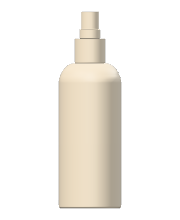
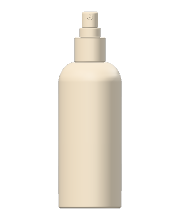
cl161: troca de fechamentos do catálogo nos Frascos e spray sem proteção

diff --git a/js/app.js b/js/app.js
@@ -19,7 +19,7 @@ import { Reflector } from 'three/addons/objects/Reflector.js';
 import { computeBoundsTree, disposeBoundsTree, acceleratedRaycast } from 'three-mesh-bvh';
 import { Brush, Evaluator, SUBTRACTION, ADDITION, INTERSECTION } from 'three-bvh-csg';
 import { icon } from './icons.js?v=2026-11-16.incom12';
-import { INCOM_CAPS, INCOM_PRODUCTS, INCOM_CAP_PROF, INCOM_PROD_PROF, INCOM_TRAYS } from './incom.js?v=2026-11-20.cl160';
+import { INCOM_CAPS, INCOM_PRODUCTS, INCOM_CAP_PROF, INCOM_PROD_PROF, INCOM_TRAYS } from './incom.js?v=2026-11-20.cl161';
 THREE.BufferGeometry.prototype.computeBoundsTree = computeBoundsTree;
 THREE.BufferGeometry.prototype.disposeBoundsTree = disposeBoundsTree;
 THREE.Mesh.prototype.raycast = acceleratedRaycast;
@@ -707,7 +707,7 @@ const BEIGE = '#e8dcc6', PINK = BEIGE, CREAM = BEIGE;
 // de cada corpo e tampa foi medido nos OBJs (tools/perfis.py) e vira um
 // módulo "perfil" com os mesmos sliders, volumetria e troca dos demais.
 // Carimbo de versão: aparece no topo; se não bater com o último envio, é cache.
-const BUILD = '2026-11-20.cl160';
+const BUILD = '2026-11-20.cl161';
 document.getElementById('build').textContent = 'versão ' + BUILD;
 let PERFIS = {};
 try { PERFIS = await (await fetch('draft/perfis.json?v=' + BUILD)).json(); } catch { PERFIS = {}; }
@@ -9609,7 +9609,16 @@ function incomSuggestions(m) {
     const v = k.replace(/^Incom /, '').replace(/\s*\([^)]*\)\s*$/, '');
     out.push({ k, mod, label: v === fam ? `${fam} (padrão do catálogo)` : v, cur: sig(mod) === sig(m) });
   }
-  return out.length > 1 ? out : [];
+  // cl161 (dona, Amsterdam frasco ao lado da pág. 64 do catálogo: "aqui oferecer as peças intercambiáveis de válvulas, sempre oferecer a
+  // troca quando possível"): nos Frascos (rosca 24-410) os fechamentos do catálogo entram primeiro na troca, já no tamanho do frasco
+  const clos = [], cat = categoryOf(m)?.[0];
+  if (me?.fcat === 'Frascos' && (cat === 'Tampa' || cat === 'Válvula')) {
+    const Wb = S.modules.find(x => x.vol)?.W || 50;
+    const size = { incomSens: { W: r1(Wb * 0.727), D: r1(Wb * 0.727), h: r1(Wb * 0.424) }, incomTambor: { W: r1(Wb * 0.98), D: r1(Wb * 0.98) }, patoIncom: { W: r1(Wb * 88 / 196), D: r1(Wb * 88 / 196) } };
+    for (const k of ['incomSpray', 'incomDosadora', 'patoIncom', 'incomTrigger', 'incomEspumadora', 'incomBicoAplicador', 'incomSens', 'incomTambor']) if (LIB[k])
+      clos.push({ k, mod: M(k, { ...(size[k] || {}), gap: m.gap, ox: m.ox }), label: LIB[k].name.replace(/^Incom · /, ''), cur: typeOf(m) === k, fecho: true });
+  }
+  return [...(out.length > 1 ? out : []), ...clos];
 }
 function renderSwap(ed, m) {
   const [label, keys] = categoryOf(m), cur = typeOf(m);
@@ -9633,11 +9642,11 @@ function renderSwap(ed, m) {
   originTabs.onclick = e => { const origin = e.target.closest('button')?.dataset.origin; if (origin) chooseOrigin(origin); };
   originTabs.onkeydown = e => { if (!['ArrowLeft', 'ArrowRight', 'Home', 'End'].includes(e.key)) return; e.preventDefault(); chooseOrigin(e.key === 'Home' ? 'outbox' : e.key === 'End' ? 'incom' : swapOrigin === 'incom' ? 'outbox' : 'incom'); originTabs.querySelector(`[data-origin="${swapOrigin}"]`).focus(); };
   const sugs = incomSuggestions(m);
-  if (sugs.length) { const h = document.createElement('h4'); h.textContent = 'Sugestões Incom para este produto'; grid.appendChild(h);
-    for (const sg of sugs) { const card = document.createElement('div'); card.className = 'card' + (sg.cur ? ' on' : ''); card.title = sg.label; card.dataset.grp = 'Sugestões Incom'; card.dataset.origin = 'sug';
+  if (sugs.length) { let hF = false; if (sugs.some(sg => !sg.fecho)) { const h = document.createElement('h4'); h.textContent = 'Sugestões Incom para este produto'; grid.appendChild(h); }
+    for (const sg of sugs) { if (sg.fecho && !hF) { hF = true; const h = document.createElement('h4'); h.textContent = 'Fechamentos do catálogo para este frasco'; grid.appendChild(h); } const card = document.createElement('div'); card.className = 'card' + (sg.cur ? ' on' : ''); card.title = sg.label; card.dataset.grp = 'Sugestões Incom'; card.dataset.origin = 'sug';
       card.innerHTML = `<img class="ph" alt=""><div>${sg.label}</div>`;
       card.onclick = () => { if (sg.cur) return; swapScroll = { key: skey, top: grid.scrollTop }; swapMemo.set(m.uid + '|' + typeOf(m), structuredClone(m));
-        S.modules[sel] = { ...structuredClone(sg.mod), uid: m.uid }; setTimeout(() => toastUndo(`Trocada pela tampa de ${sg.label}`), 50); renderStack(); renderEditorKeepScroll(); build(); };
+        S.modules[sel] = { ...structuredClone(sg.mod), uid: m.uid }; setTimeout(() => toastUndo(sg.fecho ? `Trocado por ${sg.label}` : `Trocada pela tampa de ${sg.label}`), 50); renderStack(); renderEditorKeepScroll(); build(); };
       grid.appendChild(card); queueThumb(card.querySelector('img'), { color: BEIGE, finish: 'fosco', modules: [{ ...structuredClone(sg.mod), liq: false }] }); } }
   for (const [gTitle, gKeys] of groups) {
   if (gTitle) { const h = document.createElement('h4'); h.textContent = gTitle; grid.appendChild(h); }
@@ -10786,10 +10795,8 @@ function incomProduct(r) {
           const valve = M('spray', { name: 'Spray liso', W: mm(cw), D: mm(cw), h: mm(ch),
             skirtPct: 100, ridges: 0, collarR: 0.6, guideW: mm(gw), guideH: mm(gh), guideLine: 0,
             stemH: 0, actW: r1(mm(pw) - 1.6), actH: r1(mm(ph) - 1.2), mola: false });
-          // Proteção sobre o atuador. Folgas 0,8/1,2 mm de representação, não cotas industriais.
-          const cap = P('Proteção transparente do spray', mm(pw), null, mm(ph), { ...clear, casca: true,
-            rTop: 0.4, rBot: 0, seatV: true, gap: valve.guideH, capa: true });
-          return [valve, cap]; })()
+          // cl161 (dona, print do spray ao lado da foto: "não tem tampa"): sem a proteção transparente sobre o atuador (era um P próprio)
+          return [valve]; })()
         : fe === 'patoIncom' ? M('patoIncom', { W: r1(W * 88 / 196), D: r1(W * 88 / 196) }) // P68: válvula própria (saia 88 px de 196 do corpo)
         : fe === 'tampa' ? M('incomTambor', { W: r1(W * 0.98), D: r1(W * 0.98), h: r2((H - nh) * 0.31 - 1.6) })
         : fe === 'sens' ? M('incomSens', { W: r1(W * 0.727), D: r1(W * 0.727), h: r1(W * 0.424) }) // foto do New York 250 de frente: 72,7% da largura do frasco e altura de 42,4% dela

diff --git a/index.html b/index.html
@@ -6,7 +6,7 @@
 <title>OUTBOX</title>
 <link rel="preconnect" href="https://fonts.googleapis.com"><link rel="preconnect" href="https://fonts.gstatic.com" crossorigin>
 <link rel="stylesheet" href="https://fonts.googleapis.com/css2?family=Inter:wght@400;500;600&display=swap">
-<link rel="stylesheet" href="css/app.css?v=2026-11-20.cl160">
+<link rel="stylesheet" href="css/app.css?v=2026-11-20.cl161">
 <script type="importmap">
 {"imports":{
   "three":"https://cdn.jsdelivr.net/npm/three@0.169.0/build/three.module.js",
@@ -302,6 +302,6 @@
 </section>
 </div>
 
-<script type="module" src="js/app.js?v=2026-11-20.cl160"></script>
+<script type="module" src="js/app.js?v=2026-11-20.cl161"></script>
 </body>
 </html>

diff --git a/CODEX_REFINO.md b/CODEX_REFINO.md
@@ -181,6 +181,7 @@ Pendências conhecidas (precisam de dado ou de decisão; não invente):
 
 **Registro** (o mais novo em cima):
 
+- **cl161** — (1) Dona (Amsterdam frasco ao lado da pág. 64: "aqui oferecer as peças intercambiáveis de válvulas, sempre oferecer a troca quando possível"): nos Frascos, ao clicar no fechamento, a troca abre com "Fechamentos do catálogo para este frasco" — Spray, Dosadora, Válvula bico de pato, Trigger, Espumadora, Bico aplicador, Tampa Sens e Tampa tambor (`incomSuggestions`), já no tamanho do frasco (Sens 72,7% da largura, tambor 98%, bico de pato 88/196). Conferido: as oito encaixam no gargalo do Amsterdam. Tampa bola fica fora da lista (são duas peças: colar + bola). (2) Dona (print do spray ao lado da foto: "não tem tampa"): os Frascos com spray (Apple Blow, Bulb Blow 150, Chicago, Miami, Seoul 250, Sydney 60) ficaram sem a proteção transparente sobre o atuador. Miniaturas desses regeradas.
 - **cl160** — (1) Dona ("aumentar líquido geral para não ter muito headgap"): nível do conteúdo 97% nos frascos (padrão do módulo, conta-gotas/dispensadores/deluxes, Frascos PET, On-Off) e 96% nos potes e no tubo de gloss (eram 90–94%); refis seguem 99%. (2) Dona (print do Deluxe: "dente é interno, sempre"): o dente da sobretampa saía mais largo que o topo do anel (perfil do desenho) e atravessava a parede da sobretampa; agora fica sempre 0,6 mm dentro do topo do anel e 0,6 mm dentro do vão da sobretampa (parede ~1,5 mm) — Bulb e Deluxes. Miniaturas: imagens iguais (bege opaco não mostra líquido nem dente); só o índice foi refeito (`makeIncomThumbs(post, [])`), porque o padrão do líquido muda a assinatura de todos.
 - **cl159** — Deluxes, dona (Amsterdam Deluxe 200 ao lado da página 58: "proporção não parece certa"): medidas nas fotos do catálogo (págs. 57–62), o frasco ocupa ~58–65% da altura e a sobretampa ~28–31%; o modelo dava frasco 55% e sobretampa 37% nos seis. Frasco e anel agora pela foto de cada um (Amsterdam 100: 58,5/10,4%; Amsterdam 200: 63,7/8,3%; New York 100: 59,6/9,2%; New York 200: 62,2/6,8%; Sydney 100: 61,9/8,6%; Sydney 200: 64,8/6,6%), a sobretampa com o resto (altura total = catálogo) e a pump encolhe proporcionalmente só se não couber (2,5 mm de folga no topo). Miniaturas regeradas.
 - **cl158** — Deluxes, dona (foto da sobretampa: "nunca redonda, sempre arredondada"): a opção do topo da sobretampa deixou de ser domo — "Arredondada" é topo reto com canto de ~22% da largura (≈ 9 mm no Amsterdam 100); "Reta" segue com raio 1,2. O desenho do New York e do Sydney dava domo: esses vêm Arredondada por padrão. Miniaturas regeradas.

diff --git a/HANDOFF_CODEX.md b/HANDOFF_CODEX.md
@@ -1,4 +1,6 @@
-# Atualização Claude — 20/11/2026, cl160
+# Atualização Claude — 20/11/2026, cl161
+
+- **cl161** — (1) Dona (Amsterdam frasco ao lado da pág. 64: "aqui oferecer as peças intercambiáveis de válvulas, sempre oferecer a troca quando possível"): nos Frascos, ao clicar no fechamento, a troca abre com "Fechamentos do catálogo para este frasco" — Spray, Dosadora, Válvula bico de pato, Trigger, Espumadora, Bico aplicador, Tampa Sens e Tampa tambor (`incomSuggestions`), já no tamanho do frasco (Sens 72,7% da largura, tambor 98%, bico de pato 88/196). Conferido: as oito encaixam no gargalo do Amsterdam. Tampa bola fica fora da lista (são duas peças: colar + bola). (2) Dona (print do spray ao lado da foto: "não tem tampa"): os Frascos com spray (Apple Blow, Bulb Blow 150, Chicago, Miami, Seoul 250, Sydney 60) ficaram sem a proteção transparente sobre o atuador. Miniaturas desses regeradas.
 
 - **cl160** — (1) Dona ("aumentar líquido geral para não ter muito headgap"): nível do conteúdo 97% nos frascos (padrão do módulo, conta-gotas/dispensadores/deluxes, Frascos PET, On-Off) e 96% nos potes e no tubo de gloss (eram 90–94%); refis seguem 99%. (2) Dona (print do Deluxe: "dente é interno, sempre"): o dente da sobretampa saía mais largo que o topo do anel (perfil do desenho) e atravessava a parede da sobretampa; agora fica sempre 0,6 mm dentro do topo do anel e 0,6 mm dentro do vão da sobretampa (parede ~1,5 mm) — Bulb e Deluxes. Miniaturas: imagens iguais (bege opaco não mostra líquido nem dente); só o índice foi refeito (`makeIncomThumbs(post, [])`), porque o padrão do líquido muda a assinatura de todos.
 
